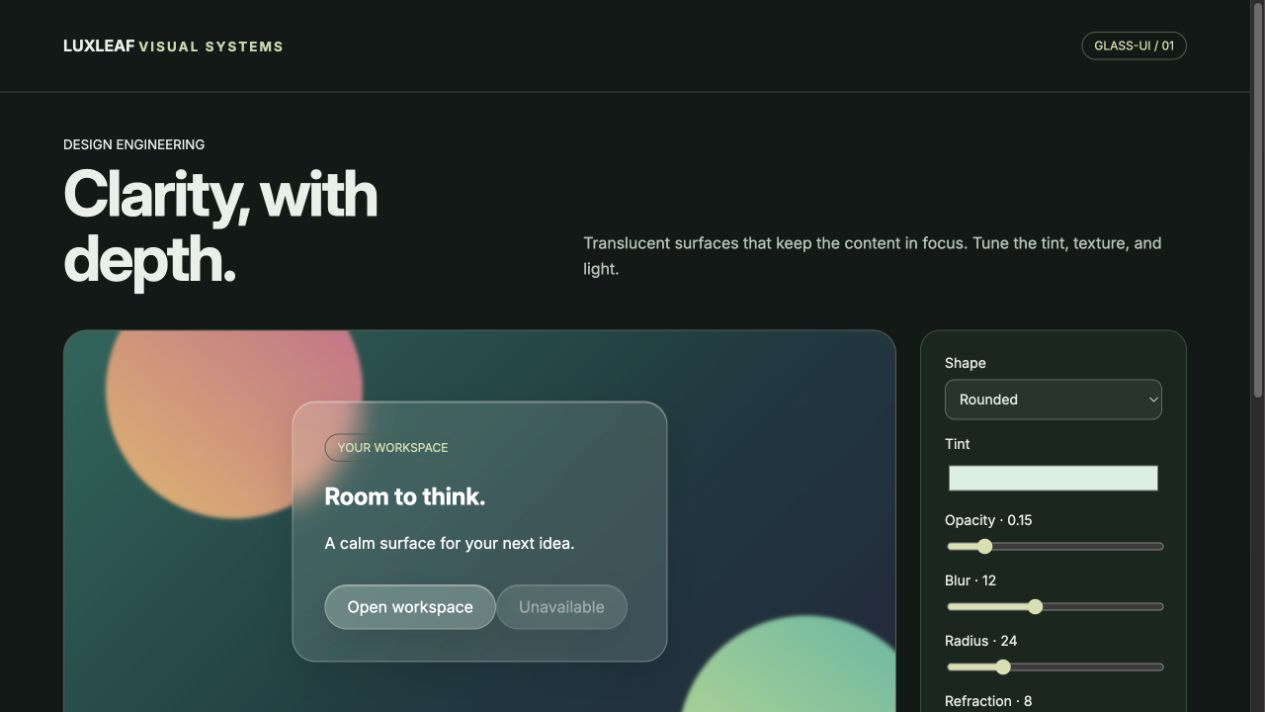
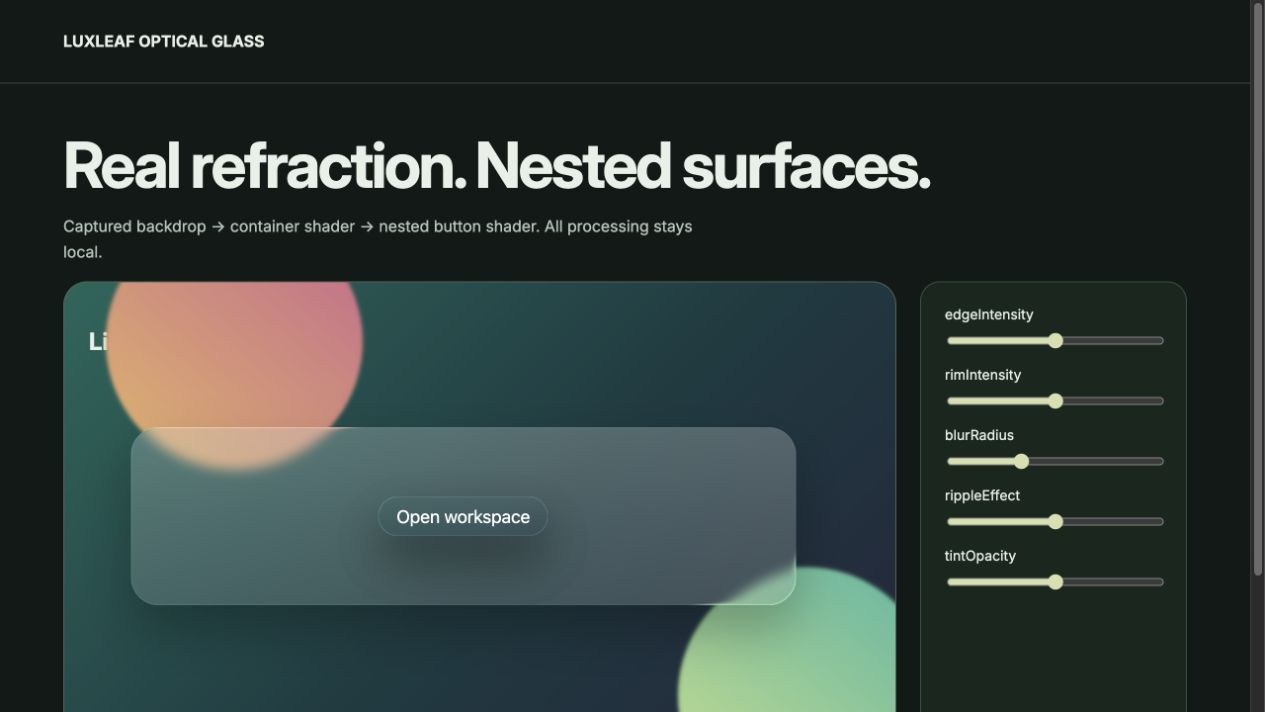
Show expanded public visual products, releases and measured validation

diff --git a/scripts/verify_showcase.py b/scripts/verify_showcase.py
@@ -8,6 +8,11 @@ from urllib.parse import unquote, urlsplit
 import xml.etree.ElementTree as ET
 
 ROOT = Path(__file__).resolve().parents[1]
+# Explicitly reviewed public repositories; backend source remains outside this navigation boundary.
+PUBLIC_REPOSITORIES = {
+    "luxleaf-ai-showcase", "luxleaf-scene-kit", "luxleaf-glass-ui",
+    "luxleaf-gradient-studio", "luxleaf-metal-mark",
+}
 
 
 def verify(root=ROOT):
@@ -84,9 +89,9 @@ def verify(root=ROOT):
                     parsed.hostname == "github.com"
                     and len(github_path) >= 2
                     and github_path[0].lower() == "zontafor"
-                    and github_path[1].lower() != "luxleaf-ai-showcase"
+                    and github_path[1].lower() not in PUBLIC_REPOSITORIES
                 ):
-                    errors.append(f"Public navigation points outside the public showcase in {name}")
+                    errors.append(f"Public navigation points outside the reviewed public repositories in {name}")
                 if parsed.scheme or parsed.netloc or not parsed.path:
                     continue
                 resolved = (path.parent / unquote(parsed.path)).resolve()

diff --git a/docs/VISUAL_PRODUCTS.md b/docs/VISUAL_PRODUCTS.md
@@ -1,79 +1,78 @@
-# LuxLeaf visual products
+# LuxLeaf visual products — expanded release
 
-Four private v0.1.0 packages add a presentation layer to LuxLeaf's existing 31 backend and system components. Each has original product code, typed APIs, a working local workbench, architecture documentation, dependency notices, tests and a private release workflow. Original LuxLeaf work is proprietary to Michelle L. Wu; licensed foundations keep their own rights.
+All four source repositories are public on Zontafor. Scene Kit, Gradient Studio and Metal Mark are version **0.2.0**; Glass UI is **0.2.1**. Original LuxLeaf additions are proprietary to **Michelle L. Wu**. Preserved foundations retain their own licenses and authorship. Public visibility is not an open-source license for the proprietary additions.
 
-This page shows actual local workbench screenshots and the supported scope. It is a public demonstration record, not a hosted interactive application or source download. No customer media was used: the logo is an original generated leaf and the other scenes are synthetic.
+The earlier v0.1 workbenches were limited initial products. This release restores substantially more source and runtime functionality, adds original workflows, and publishes source-inclusive package archives. It does **not** establish exact upstream parity or production certification.
 
-| Product | Working v0.1 scope | Current boundary |
-|---|---|---|
-| **Scene Kit** | React scene composition, lit primitives, material controls, orbit interaction, strict presets | Uses React Three Fiber and Three.js as licensed foundations; does not replace their renderer ecosystem |
-| **Glass UI** | Native buttons and panels, tint, blur, shape controls, optional local SVG refraction, React and imperative APIs | Browser-dependent refraction; no captured-page WebGL renderer |
-| **Gradient Studio** | Original WebGL2 color fields, plane/orb/ribbon modes, motion controls, presets and PNG export | Procedural shader modes; no Figma/Framer/Vue integrations or mesh-based gradient system |
-| **Metal Mark** | Original reflection shader, local PNG/WebP alpha masks, live controls and transparent PNG export | No SVG ingestion, video export or remote processing |
+## Repositories and distributions
+
+| Product | Public source | Public release archive | GitHub Packages name |
+|---|---|---|---|
+| Scene Kit | [Repository](https://github.com/Zontafor/luxleaf-scene-kit) | [v0.2.0](https://github.com/Zontafor/luxleaf-scene-kit/releases/tag/v0.2.0) | `@zontafor/luxleaf-scene-kit` |
+| Glass UI | [Repository](https://github.com/Zontafor/luxleaf-glass-ui) | [v0.2.1](https://github.com/Zontafor/luxleaf-glass-ui/releases/tag/v0.2.1) | `@zontafor/luxleaf-glass-ui` |
+| Gradient Studio | [Repository](https://github.com/Zontafor/luxleaf-gradient-studio) | [v0.2.0](https://github.com/Zontafor/luxleaf-gradient-studio/releases/tag/v0.2.0) | `@zontafor/luxleaf-gradient-studio` |
+| Metal Mark | [Repository](https://github.com/Zontafor/luxleaf-metal-mark) | [v0.2.0](https://github.com/Zontafor/luxleaf-metal-mark/releases/tag/v0.2.0) | `@zontafor/luxleaf-metal-mark` |
+
+The registry workflows publish actual npm packages to GitHub Packages and install them into fresh consumer directories. Registry authentication is required. Package visibility is configured separately from repository visibility; public release archives provide a separate download route. See each repository's publication workflow for the exact status and commit.
 
 ## Scene Kit
 
-![Scene Kit workbench with a rendered torus and material controls](../assets/visual-products/scene-kit.jpg)
+![Scene document workbench with two rendered objects](../assets/visual-products/scene-kit.jpg)
 
-The local workbench changes geometry, color, roughness, metalness and movement. Demand rendering is used when motion is paused. The package exposes the licensed foundation APIs for advanced scene composition. Its basic static GLTF helper is implemented, but compressed assets, animated skinned models and remote asset workflows are outside the validated release scope.
+The complete Fiber API, native entry point, test renderer and lint integration sit alongside LuxLeaf scene documents, model cloning, asset leases, animation playback, adaptive quality and PNG export. The local model importer accepts embedded GLB resources and disposes owned resources when replaced. The **228-file pinned foundation tree** preserves the implementation, tests, examples and documentation with hash verification.
 
 ## Glass UI
 
-![Glass UI workbench with native controls and translucent panels](../assets/visual-products/glass-ui.jpg)
+![Optical glass workbench sampling its chosen backdrop](../assets/visual-products/glass-ui.jpg)
 
-The library retains real native controls and does not capture the page. Local SVG filters enhance supported browser compositors; other browsers keep tint and blur where available. Host applications still own focus presentation, readable contrast and complete accessibility testing.
+A real captured-backdrop shader feeds nested optical buttons. Validated controls, keyboard and disabled behavior, React integration, capture-root coordinates and resource cleanup complement the CSS components. The **13-file MIT reference** is preserved. Version 0.2.1 corrects capture alignment and zero-blur rendering; its stronger browser test checks backdrop colors as well as output pixels.
 
 ## Gradient Studio
 
-![Gradient Studio workbench showing an original green and gold color field](../assets/visual-products/gradient-studio.jpg)
+![Mesh gradient studio with live geometry and palette controls](../assets/visual-products/gradient-studio.jpg)
 
-Three-color presets are validated before becoming shader uniforms. The local renderer offers static PNG export and pauses automatic frames for reduced-motion preference, hidden documents and offscreen canvases. The shader is original LuxLeaf code; this is not a pixel-compatible recreation of another gradient product.
+React runs from the pinned 2.4.24 source; Vue uses the full 0.1.0 package. All twelve geometry/shader-family combinations are exercised on a real GPU. The studio adds strict presets, undo/redo, interpolation, URL sharing and PNG export. Separate Framer and Figma adapters are present, with actual editor-host verification still outstanding. The **606-file reference tree** preserves the broader packages, apps, integration sources, shaders and tests.
 
 ## Metal Mark
 
-![Metal Mark workbench displaying an original reflective leaf logo](../assets/visual-products/metal-mark.jpg)
+![Original logo studio with distance-field metal reflections](../assets/visual-products/metal-mark.jpg)
 
-Logo files remain in the browser. The alpha channel supplies the mask; the renderer fits it to the canvas and generates moving reflections. Input is limited to PNG/WebP up to 8 MiB and decoded dimensions up to 4096 pixels. Presets contain settings, not image data. The implementation and leaf artwork are original; restricted third-party shader code and assets are not included.
+Original LuxLeaf code processes local SVG, PNG and WebP into distance-field bevels and normals. The studio supports directional reflections, PNG/WebM export, embedded-logo projects, undo/redo and bounded share links. An authenticated SQLite adapter supports project storage, expiry and deletion. No Paper Design implementation, shader or asset was copied; exact compatibility with that restricted product is not claimed.
 
-## Architecture and system boundary
+## Architecture
 
 ```mermaid
-flowchart TB
-    Person[User in authorized application] --> Host[LuxLeaf application shell]
-    Host --> Scene[Scene Kit]
-    Host --> Glass[Glass UI]
-    Host --> Gradient[Gradient Studio]
-    Host --> Metal[Metal Mark]
-    Scene --> Browser[Local browser rendering]
-    Glass --> Browser
-    Gradient --> Browser
-    Metal --> Browser
-    Host -. future authorized preset persistence .-> API[Tenant-scoped application API]
-    API --> System[Existing knowledge, governance and workflow services]
+flowchart LR
+  Host[Host application] --> Scene[Scene Kit]
+  Host --> Glass[Glass UI]
+  Host --> Gradient[Gradient Studio]
+  Host --> Metal[Metal Mark]
+  Scene --> Models[Validated scene documents / embedded GLB]
+  Glass --> Capture[Permitted backdrop capture]
+  Gradient --> Engines[React / Vue engines]
+  Metal --> Mask[Local SVG and raster processing]
+  Models --> GPU[Browser rendering]
+  Capture --> GPU
+  Engines --> GPU
+  Mask --> GPU
+  GPU --> Export[PNG / project data / supported video]
+  Metal --> Store[Optional authenticated project store]
 ```
 
-These libraries are presentation packages. They do not authorize users, call model providers, issue credentials or meter usage. A host application can persist validated presets through its tenant-scoped API; that connection is an integration contract, not a completed backend integration in these four packages. Provider credentials and permission checks belong on the server.
+Each repository includes architecture, capability, validation and provenance documentation. Preserved reference files are separate from LuxLeaf extensions. The optional project store is a single-process adapter; host tenancy, rate limits, distributed storage, HTTPS and operating budgets remain application responsibilities.
 
-The renderers accept bounded settings, render locally and release their resources when disposed. Gradient Studio and Metal Mark cap device pixel ratio at two and drawing-buffer dimensions at 4096. Those bounds limit allocations; they are not evidence of measured enterprise throughput or mobile performance.
+## Recorded verification — November 1, 2026
 
-## Recorded verification
-
-Observed locally on 2026-11-01:
-
-| Product | Unit tests | Actual browser assertions |
+| Package | Unit/integration tests | Expanded browser assertions |
 |---|---:|---:|
-| Scene Kit | 6 | 6 |
-| Glass UI | 8 | 6 |
-| Gradient Studio | 6 | 7 |
-| Metal Mark | 7 | 8 |
-| **Total** | **27** | **27** |
+| Scene Kit | 18 | 6 |
+| Glass UI | 13 | 11 |
+| Gradient Studio | 12 | 28 |
+| Metal Mark | 16 | 10 |
+| **Total** | **59** | **55** |
 
-All four passed strict TypeScript checks, production builds, package-content review, and import/preset checks after installation into a fresh consumer. The browser assertions exercised real rendering or DOM behavior, live updates and cleanup; the gradient and logo checks also inspected output and PNG export. The four packages resolve to one compatible React installation in that consumer.
+The browser assertions were run against production previews in the Codex in-app Chromium surface. They include actual model loading, GPU output, DOM capture, SVG rejection, PNG export, WebM recording and cleanup. They are separate from automated GitHub CI. Package verification checks exported files and imports extracted archives; publishing additionally tests a fresh registry installation.
 
-Private CI repeats type checks, unit tests, builds and package inspection. Browser checks are manually run through committed verification pages; they are not automated CI coverage. Cross-browser/device validation, adversarial media testing, measured resource budgets and independent accessibility/security review remain ahead. No full upstream feature parity or production certification is claimed.
+Remaining validation includes native devices, Figma/Framer editor hosts, a broad browser/GPU/codec matrix, accessibility review, performance budgets and independent security review. Preserving reference source does not prove every upstream test or application has been recreated.
 
-## Relationship to the wider platform
-
-The existing [system architecture](SYSTEM_ARCHITECTURE.md) and [pipeline families](SYSTEM_PIPELINES.md) describe the backend and operational portfolio. These four packages complement that work as a separate visual layer. The original 31-component catalog remains a backend/system catalog; adding four visual products does not rewrite its verification counts.
-
-[Return to LuxLeaf](../README.md)
+These products complement the existing [system architecture](SYSTEM_ARCHITECTURE.md) and [pipeline families](SYSTEM_PIPELINES.md). The 31-component backend/system catalog and its recorded counts remain separate.

diff --git a/README.md b/README.md
@@ -6,7 +6,7 @@
 
 **A business AI platform bringing private knowledge, governed model access, and repeatable workflows into one workspace.**
 
-LuxLeaf is being developed by Michelle L. Wu. This repository is its public product showcase: capabilities, architecture, synthetic demonstrations, and development direction. The application source is maintained privately.
+LuxLeaf is being developed by Michelle L. Wu. This repository is its public product showcase: capabilities, architecture, synthetic demonstrations, and development direction. The backend application source is maintained privately; the four visual product repositories are public under their stated licenses.
 
 **Status:** v0.3 development preview. There is no public hosted service or downloadable application in this repository.
 
@@ -14,7 +14,7 @@ LuxLeaf is being developed by Michelle L. Wu. This repository is its public prod
 
 ## Four new visual products
 
-[Explore Scene Kit, Glass UI, Gradient Studio and Metal Mark](docs/VISUAL_PRODUCTS.md): working local visual workbenches with original product code, typed APIs, architecture documentation and private package releases. The public overview includes actual screenshots and records 27 unit tests plus 27 browser assertions. These visual packages complement the existing 31 backend/system components.
+[Explore Scene Kit, Glass UI, Gradient Studio and Metal Mark](docs/VISUAL_PRODUCTS.md): expanded public source repositories with licensed foundations, original LuxLeaf extensions, source-inclusive releases and GitHub Packages publication. The overview includes current screenshots and records 59 unit/integration tests plus 55 expanded browser assertions. These visual packages complement the existing 31 backend/system components.
 
 ## Whole-system pipelines and architecture
 
@@ -51,7 +51,7 @@ Each page shows a concrete use case, current behavior, an actual synthetic reque
 | [Evidence archives](docs/projects/luxleaf-archives.md) | Verification of a synthetic event archive |
 | [Service objectives](docs/projects/luxleaf-observability.md) | Availability and latency calculated from a sample window |
 
-The implementation repositories remain private. The public pages are recorded demonstrations and documentation; there is no hosted interactive application. The separate v0.3 platform demonstration appears below.
+The backend implementation repositories remain private. The public pages are recorded demonstrations and documentation; there is no hosted interactive application. The separate v0.3 platform demonstration appears below.
 
 ## Start with the detailed brief
 
